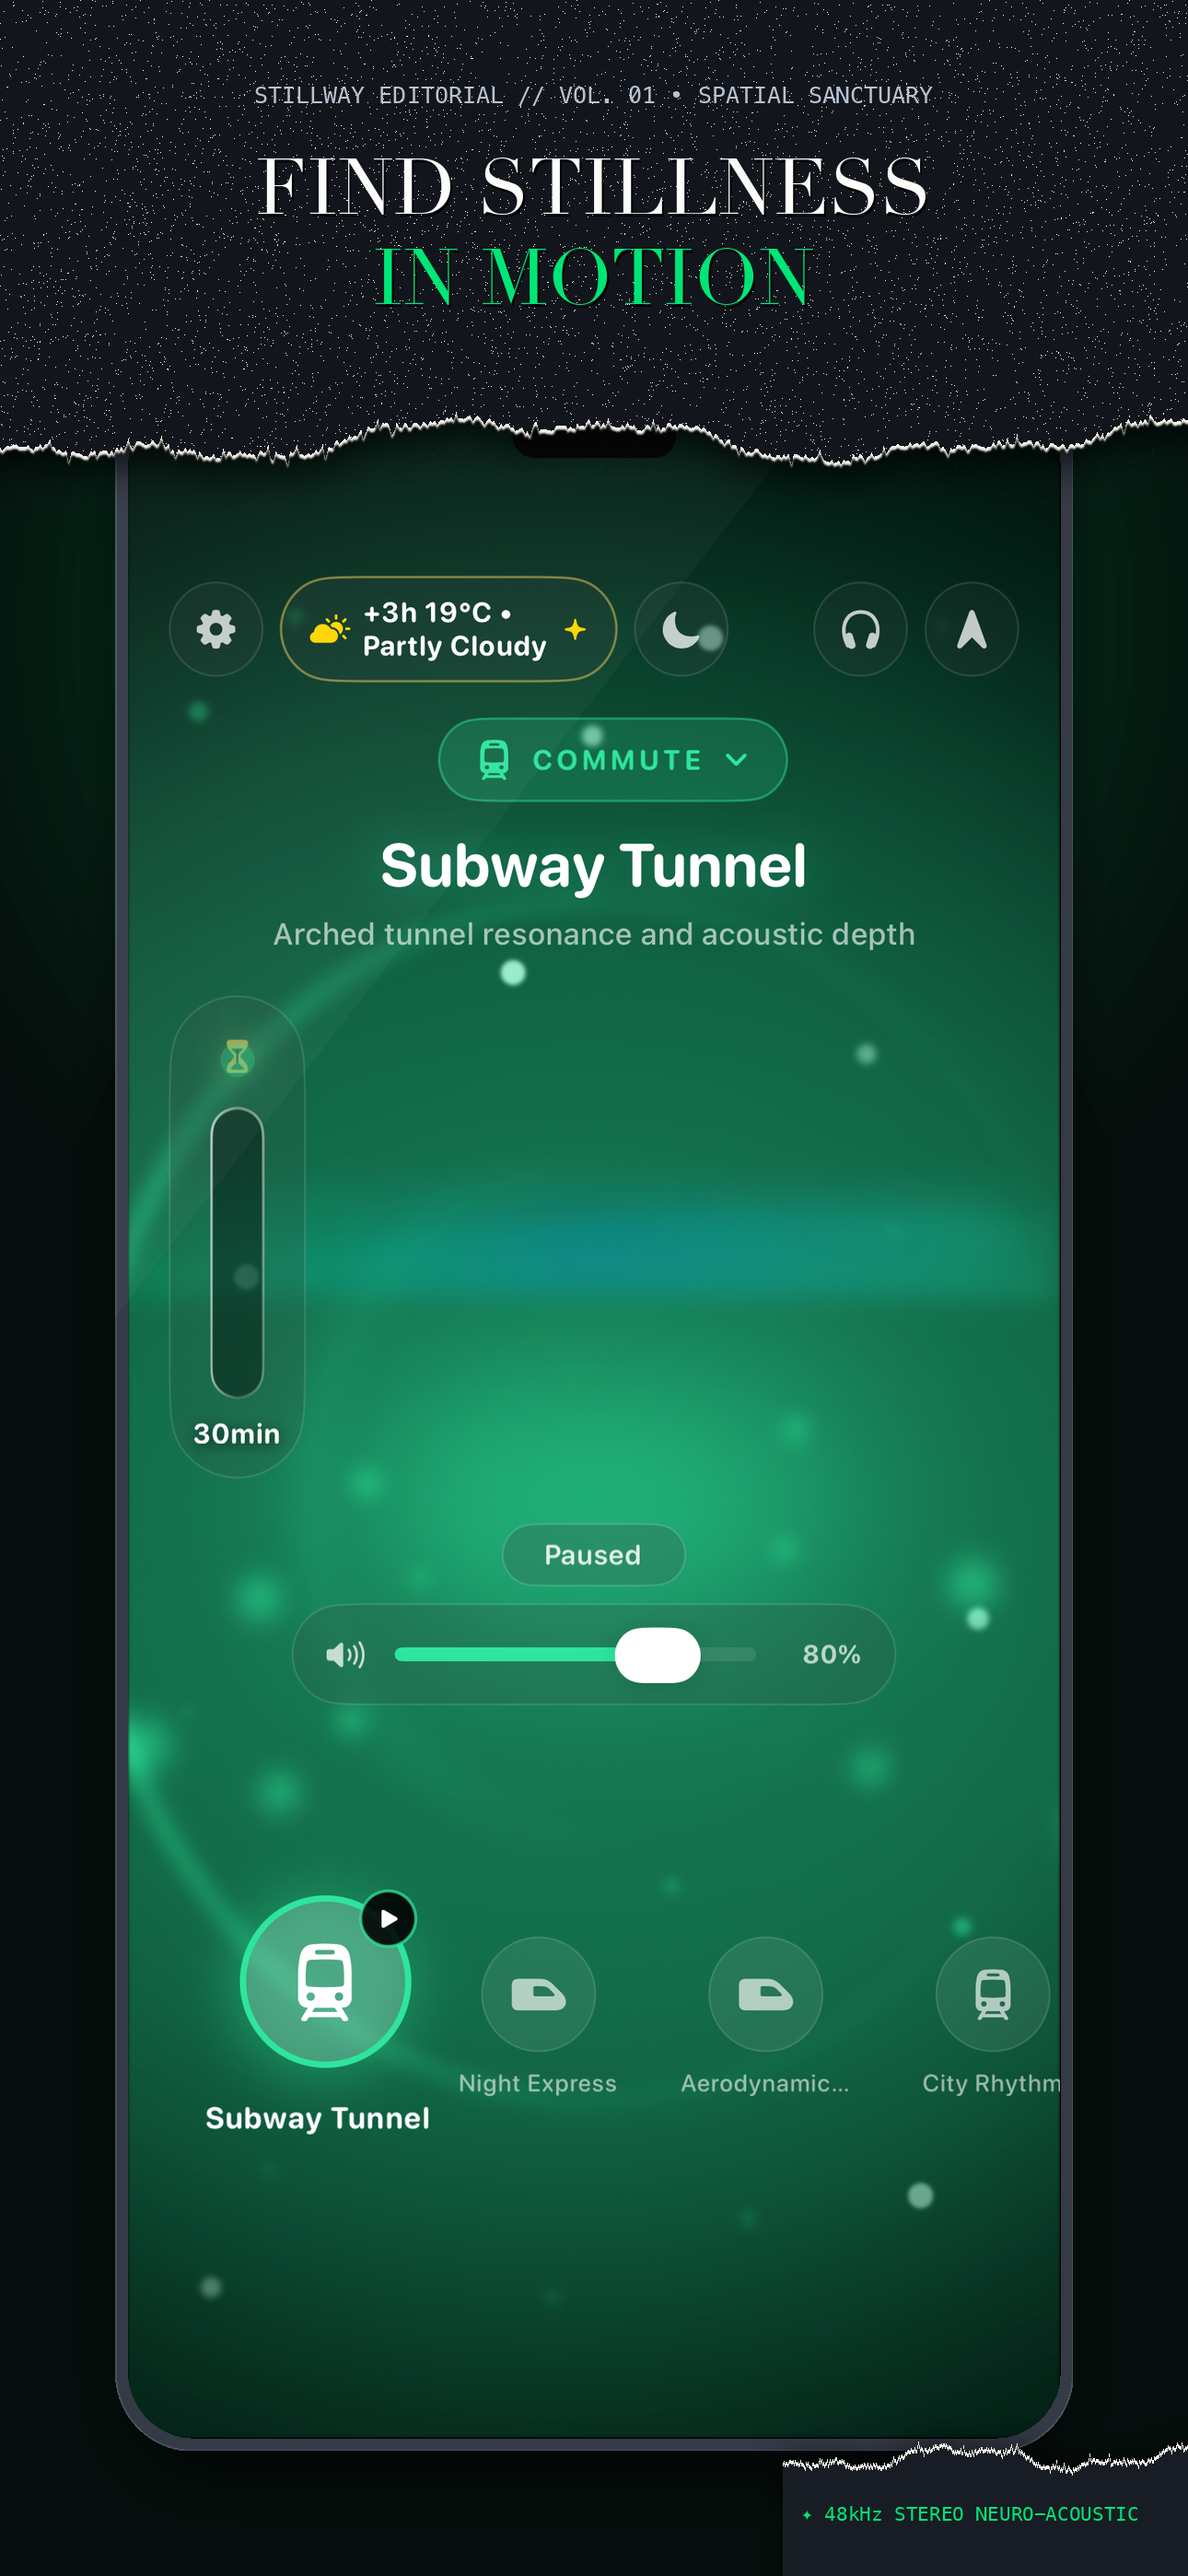
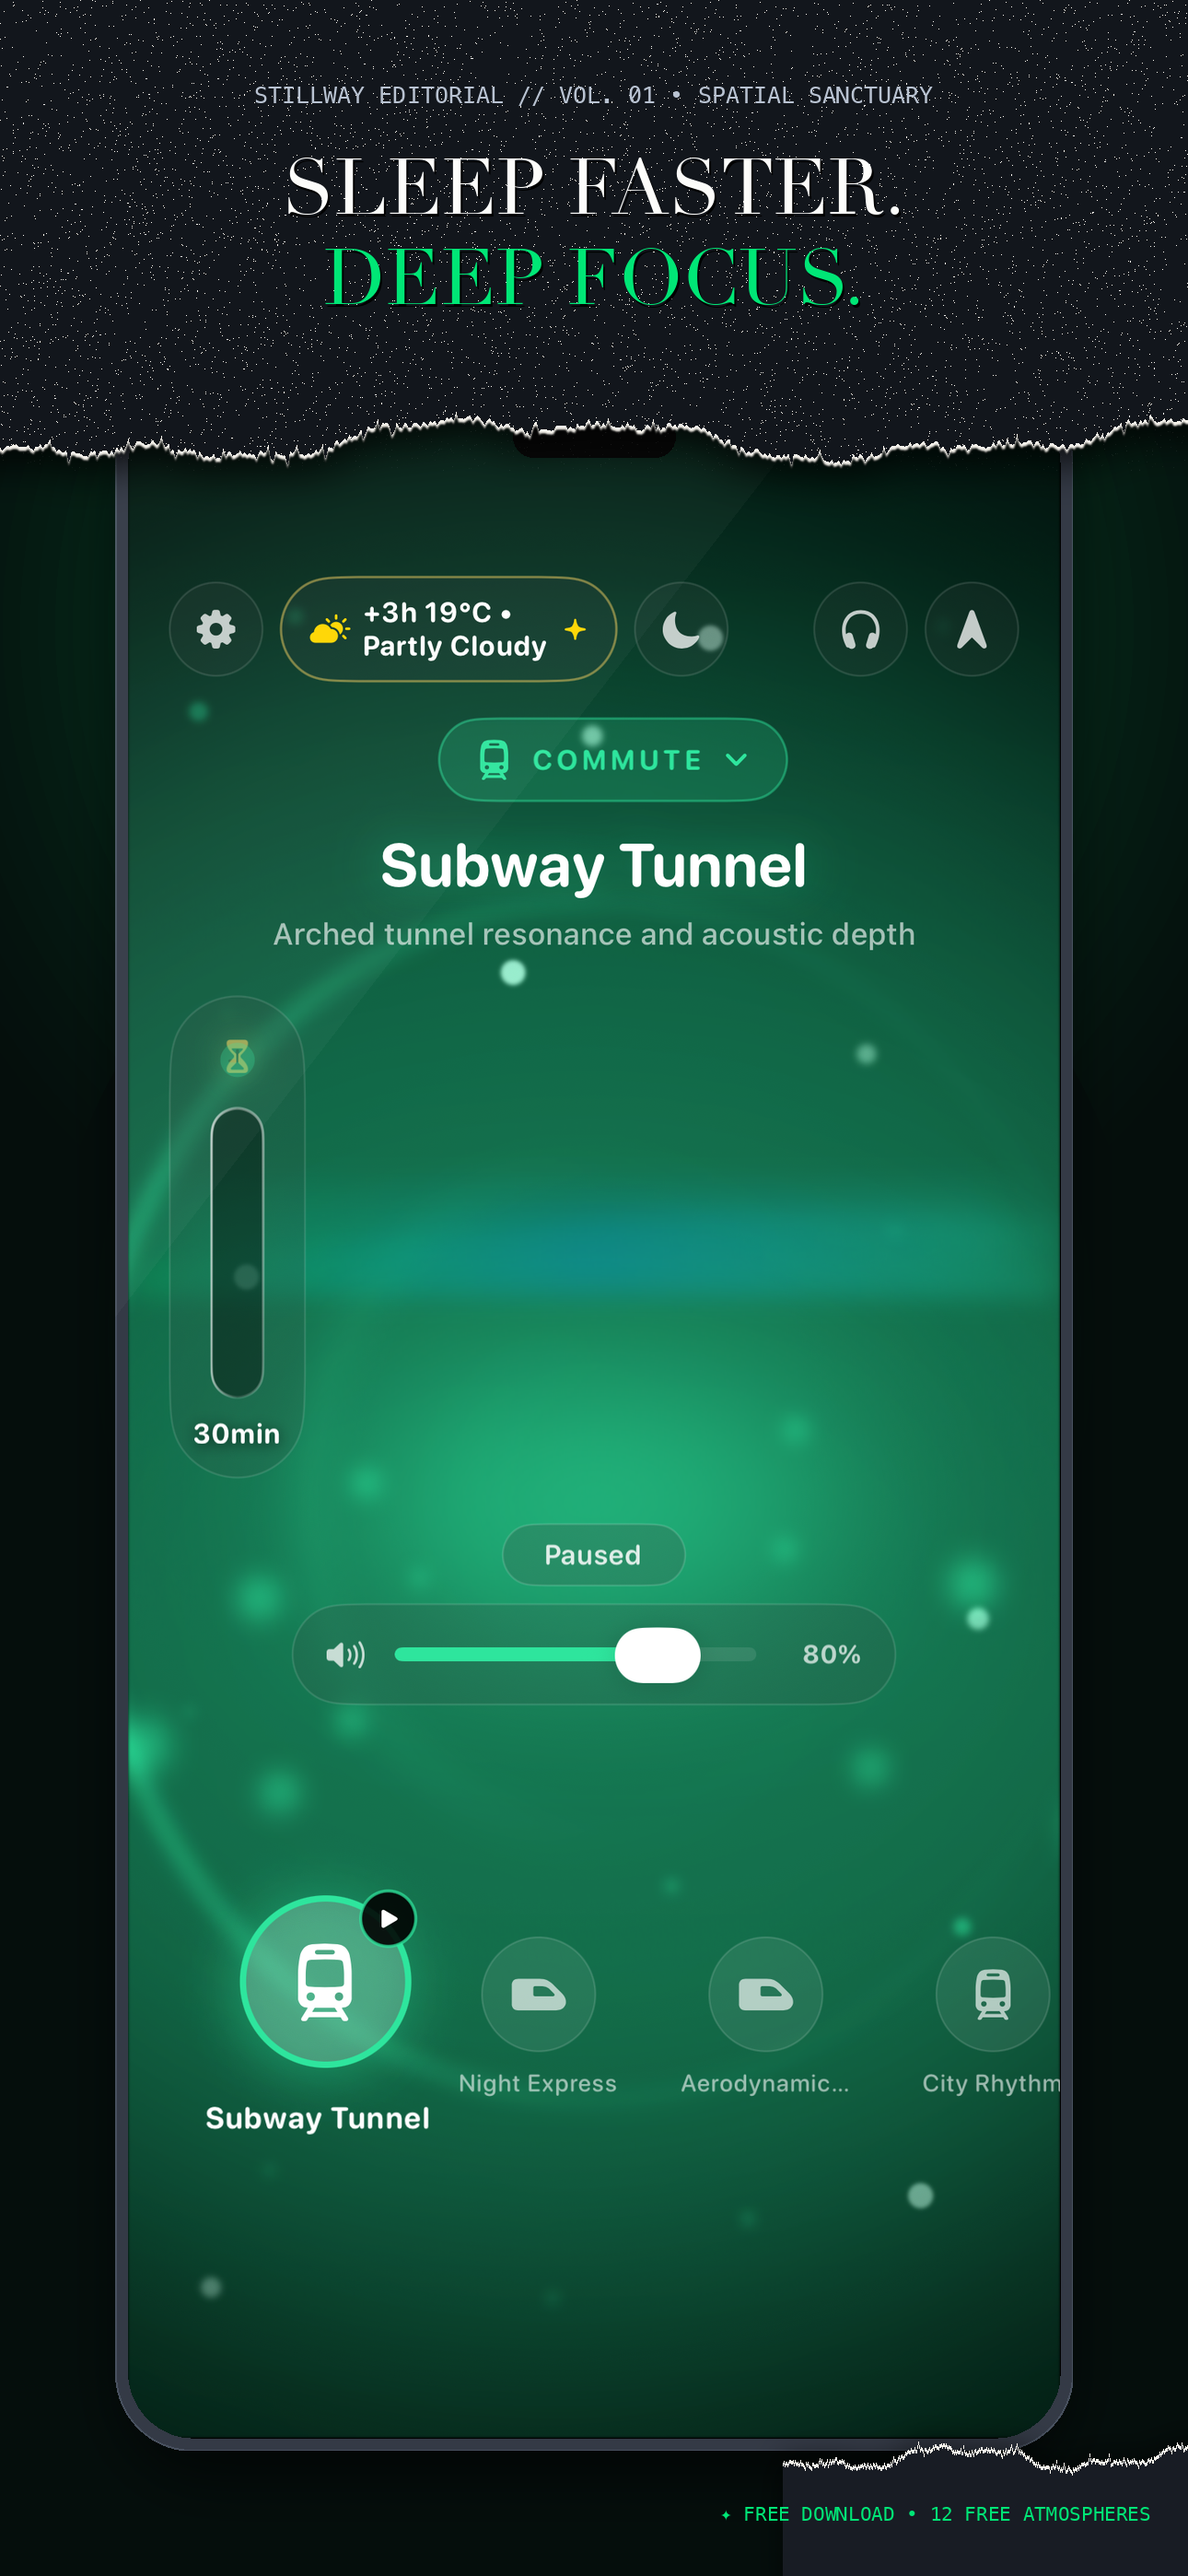
feat(store): configure .99 Lifetime Pro, polite paywall prompter, and free download freemium model

Changed region(s): [[0.2171, 0.0622, 0.7752, 0.1245], [0.8992, 0.9646, 0.9302, 0.9957], [0.6822, 0.9646, 0.7132, 0.9957]]

diff --git a/Stillway/Views/Sheets/SettingsSheet.swift b/Stillway/Views/Sheets/SettingsSheet.swift
@@ -24,6 +24,10 @@ struct SettingsSheet: View {
 
     private var accent: Color { theme.gradient.accentColor }
 
+    private var isProActive: Bool {
+        store.isPro || StillwayTesting.unlockAllFeatures
+    }
+
     var body: some View {
         NavigationStack {
             ZStack {
@@ -120,20 +124,31 @@ struct SettingsSheet: View {
                                                 title: lm.string("atmo_auto"),
                                                 icon: "sparkles",
                                                 isSelected: theme.atmosphereOverride == nil,
-                                                accentColor: accent
+                                                accentColor: accent,
+                                                isLocked: false
                                             ) {
                                                 theme.atmosphereOverride = nil
                                             }
 
                                             ForEach(AtmosphereKind.allCases, id: \.self) { kind in
                                                 let isSelected = theme.atmosphereOverride == kind
+                                                let isLocked = !isProActive && !kind.isFree
                                                 atmospherePill(
                                                     title: kind.displayName(using: lm),
-                                                    icon: kind.symbol,
+                                                    icon: isLocked ? "lock.fill" : kind.symbol,
                                                     isSelected: isSelected,
-                                                    accentColor: accentForKind(kind)
+                                                    accentColor: accentForKind(kind),
+                                                    isLocked: isLocked
                                                 ) {
-                                                    theme.atmosphereOverride = kind
+                                                    if isLocked {
+                                                        HapticEngine.warning()
+                                                        dismiss()
+                                                        DispatchQueue.main.asyncAfter(deadline: .now() + 0.35) {
+                                                            runtime.showPaywall = true
+                                                        }
+                                                    } else {
+                                                        theme.atmosphereOverride = kind
+                                                    }
                                                 }
                                             }
                                         }
@@ -556,6 +571,7 @@ struct SettingsSheet: View {
         icon: String,
         isSelected: Bool,
         accentColor: Color,
+        isLocked: Bool = false,
         action: @escaping () -> Void
     ) -> some View {
         Button {
@@ -564,9 +580,18 @@ struct SettingsSheet: View {
         } label: {
             HStack(spacing: 6) {
                 Image(systemName: icon)
-                    .font(.system(size: 12, weight: .semibold))
+                    .font(.system(size: 11, weight: .semibold))
+                    .foregroundStyle(isLocked ? Color.white.opacity(0.4) : (isSelected ? Color.black : Color.white.opacity(0.85)))
                 Text(title)
                     .font(.system(size: 12, weight: isSelected ? .bold : .medium, design: .rounded))
+                if isLocked {
+                    Text("PRO")
+                        .font(.system(size: 8, weight: .bold, design: .rounded))
+                        .padding(.horizontal, 4)
+                        .padding(.vertical, 2)
+                        .background(Color.white.opacity(0.12), in: Capsule())
+                        .foregroundStyle(Color.white.opacity(0.75))
+                }
             }
             .foregroundStyle(isSelected ? .black : .white.opacity(0.85))
             .padding(.horizontal, 14)

diff --git a/Stillway/Core/Store/PurchaseManager.swift b/Stillway/Core/Store/PurchaseManager.swift
@@ -137,3 +137,47 @@ public enum StillwayReviewPrompter {
         }
     }
 }
+
+// MARK: - Smart Polite Paywall Prompter (Arada sırada, çok sıkmadan)
+@MainActor
+enum StillwayPaywallPrompter {
+    private static let lastPromptTimestampKey = "stillway_last_paywall_prompt_timestamp"
+    private static let sessionCountKey = "stillway_sessions_since_last_paywall_prompt"
+    private static let totalCompletedSessionsKey = "stillway_completed_listening_sessions"
+
+    /// Evaluates whether to gently show the soft paywall without annoying the user.
+    static func evaluatePrompt(runtime: ContextEngine) {
+        // Never prompt if already Pro or in test bypass mode
+        let isPro = StillwayTesting.unlockAllFeatures || UserDefaults.standard.bool(forKey: "stillway.isPro.debug")
+        guard !isPro else { return }
+
+        let total = UserDefaults.standard.integer(forKey: totalCompletedSessionsKey) + 1
+        UserDefaults.standard.set(total, forKey: totalCompletedSessionsKey)
+
+        let sessionsSincePrompt = UserDefaults.standard.integer(forKey: sessionCountKey) + 1
+        UserDefaults.standard.set(sessionsSincePrompt, forKey: sessionCountKey)
+
+        // Rule 1: Never interrupt during the first 2 sessions (give user peace to enjoy free features)
+        guard total >= 3 else { return }
+
+        // Rule 2: Minimum 3 completed sessions between prompts
+        guard sessionsSincePrompt >= 3 else { return }
+
+        // Rule 3: Minimum 48 hours between prompts (çok sıkmadan)
+        let lastPromptTime = UserDefaults.standard.double(forKey: lastPromptTimestampKey)
+        let now = Date().timeIntervalSince1970
+        let minInterval: Double = 48 * 3600 // 48 hours
+
+        if lastPromptTime == 0 || (now - lastPromptTime) >= minInterval {
+            UserDefaults.standard.set(now, forKey: lastPromptTimestampKey)
+            UserDefaults.standard.set(0, forKey: sessionCountKey)
+
+            // Show after gentle 1.2s delay so it feels natural, only if not playing and no sheets open
+            DispatchQueue.main.asyncAfter(deadline: .now() + 1.2) {
+                if !runtime.audio.isPlaying && !runtime.showSettings && !runtime.showSounds {
+                    runtime.showPaywall = true
+                }
+            }
+        }
+    }
+}

diff --git a/Stillway/Views/Sheets/ProPaywallView.swift b/Stillway/Views/Sheets/ProPaywallView.swift
@@ -211,13 +211,13 @@ struct ProPaywallView: View {
         let localizedPrice: String
         switch lm.currentLanguage {
         case .tr:
-            localizedPrice = "999 TL"
+            localizedPrice = "199 TL"
         case .ja:
-            localizedPrice = "¥3,000"
+            localizedPrice = "¥900"
         case .fr:
-            localizedPrice = "19,99 €"
+            localizedPrice = "5,99 €"
         default:
-            localizedPrice = "$19.99"
+            localizedPrice = "$5.99"
         }
 
         if let product = store.proProduct, !ProcessInfo.processInfo.arguments.contains("-forcePaywall") {

diff --git a/Stillway/App/StillwayApp.swift b/Stillway/App/StillwayApp.swift
@@ -42,8 +42,8 @@ struct StillwayApp: App {
             prefs = UserPreferences()
             context.insert(prefs)
         }
-        // Stillway upfront paid app model: ensure user has pro access
-        prefs.isPro = true
+        // Stillway freemium model: respect purchase entitlements
+        prefs.isPro = purchaseManager.isPro || StillwayTesting.unlockAllFeatures
         StillwayMemory.apply(to: prefs)
         if let language = StillwayMemory.selectedLanguage {
             lm.currentLanguage = LanguageCode(rawValue: language) ?? .en

diff --git a/Stillway/Views/Main/AtmosphereKind.swift b/Stillway/Views/Main/AtmosphereKind.swift
@@ -115,4 +115,12 @@ enum AtmosphereKind: String, Codable, CaseIterable, Sendable {
             return lm.currentLanguage == .tr ? "Prizma Halesi" : (lm.currentLanguage == .ja ? "プリズムハロ" : (lm.currentLanguage == .fr ? "Halo Prismatique" : "Prism Halo"))
         }
     }
+
+    /// 1 Free Theme for freemium users, other 10 themes require Stillway Pro.
+    var isFree: Bool {
+        switch self {
+        case .aurora: return true
+        default: return false
+        }
+    }
 }

diff --git a/Stillway/Core/Context/ContextEngine.swift b/Stillway/Core/Context/ContextEngine.swift
@@ -218,6 +218,7 @@ final class ContextEngine {
         breathing.stop()
         triggerType = .manual
         toast = localization.string("toast_stopped")
+        StillwayPaywallPrompter.evaluatePrompt(runtime: self)
     }
 
     func handleStartStop(preferences: UserPreferences?) {

diff --git a/Stillway/screenshots_studio/generate_torn_magazine_screenshots.py b/Stillway/screenshots_studio/generate_torn_magazine_screenshots.py
@@ -250,14 +250,14 @@ CONFIGS = [
         "accent_rgb": (0, 230, 118),
         "title_size": 84,
         "meta_en": "STILLWAY EDITORIAL // VOL. 01 • SPATIAL SANCTUARY",
-        "meta_ja": "STILLWAY 創刊号 // 第01号 • 移動と静寂の聖域",
-        "meta_tr": "STILLWAY DERGİ // SAYI 01 • YOLCULUK SIĞINAĞI",
-        "title_en": "FIND STILLNESS\nIN MOTION",
-        "title_ja": "移動を、\n静寂の聖域へ。",
-        "title_tr": "HAREKETİN İÇİNDE\nDERİN SESSİZLİK",
-        "badge_en": "✦ 48kHz STEREO NEURO-ACOUSTIC",
-        "badge_ja": "★ 48kHz 立体音響 • 端末内生成",
-        "badge_tr": "✦ 48kHz ÇİFT KANALLI STEREO SES"
+        "meta_ja": "STILLWAY 創刊号 // 第01号 • 思考を鎮める静寂の聖域",
+        "meta_tr": "STILLWAY DERGİ // SAYI 01 • SESSİZLİK VE ODAKLANMA",
+        "title_en": "SLEEP FASTER.\nDEEP FOCUS.",
+        "title_ja": "思考を鎮め、\n至福の眠りへ。",
+        "title_tr": "DAHA HIZLI UYU.\nDERİN ODAKLAN.",
+        "badge_en": "✦ FREE DOWNLOAD • 12 FREE ATMOSPHERES",
+        "badge_ja": "★ 無料ダウンロード • 12音源無料",
+        "badge_tr": "✦ ÜCRETSİZ İNDİR • 12 ÜCRETSİZ AMBİYANS"
     },
     {
         "index": "02",

diff --git a/Stillway/APP_STORE_METADATA.md b/Stillway/APP_STORE_METADATA.md
@@ -11,7 +11,7 @@ Bu belge, Stillway'in App Store Connect üzerinden yayınlanması için gerekli 
 | **Birincil Kategori (Primary Category)** | Health & Fitness (Sağlık ve Fitness) veya Lifestyle (Yaşam Tarzı) |
 | **İkincil Kategori (Secondary Category)** | Productivity (Verimlilik) veya Music (Müzik) |
 | **Yaş Derecelendirmesi (Age Rating)** | 4+ (Herhangi bir sakıncalı içerik, kumar veya yetişkin unsuru içermez) |
-| **Fiyatlandırma Modeli** | Peşin Satın Alma (Upfront Paid) veya Ücretsiz İndirme + Pro Açma |
+| **Fiyatlandırma Modeli** | **Ücretsiz İndirme (Free)** + Uygulama İçi Satın Alma (Stillway Pro Lifetime) |
 | **Telif Hakkı (Copyright)** | © 2026 Sinan Nergiz. All rights reserved. |
 | **Pazarlama URL (Marketing URL)** | `https://istcity.github.io/Stillway/` |
 | **Destek URL (Support URL)** | `https://istcity.github.io/Stillway/support.html` |
@@ -46,27 +46,27 @@ App Store Connect'te incelemeye gönderebilmek için sol menüden **App Privacy 
 
 ### App Name (Maksimum 30 Karakter)
 ```text
-Stillway: Neural Ambient Audio
-```
-*(Karakter sayısı: 30)*
-
-### Subtitle (Maksimum 30 Karakter)
-```text
-Focus, Sleep & Commute Sounds
+Stillway: White & Brown Noise
 ```
 *(Karakter sayısı: 29)*
 
+### Subtitle (Maksimum 30 Karakter)
+```text
+Rain Sounds, Sleep & Focus
+```
+*(Karakter sayısı: 26)*
+
 ### Keywords (Maksimum 100 Karakter, Virgülle ayrılmış, boşluksuz)
 ```text
-ambient,white noise,binaural,sleep sounds,focus,nature,rain,meditation,zen,relax,study,lofi,soundscape
+brown noise,white noise,rain sounds,sleep,binaural,deep focus,adhd,nature,relax,meditation,zen,lofi
 ```
 *(Karakter sayısı: 99)*
 
 ### Promotional Text (Maksimum 170 Karakter - İnceleme olmadan güncellenebilir)
 ```text
-Zero taps required. Stillway senses your environment and generates the perfect acoustic sanctuary for deep work, crowded commutes, and restorative sleep.
+Free download with 12 master atmospheres. Pure offline acoustic sanctuary for deep sleep, ADHD focus, and study flow. Zero ads, zero tracking.
 ```
-*(Karakter sayısı: 153)*
+*(Karakter sayısı: 143)*
 
 ### Description (Açıklama - Maksimum 4000 Karakter)
 ```text
@@ -127,27 +127,27 @@ Welcome to the debut release of Stillway!
 
 ### App Name (Maksimum 30 Karakter)
 ```text
-Stillway: Nöro-Akustik Ortam
-```
-*(Karakter sayısı: 28)*
-
-### Subtitle (Maksimum 30 Karakter)
-```text
-Odaklanma, Uyku ve Beyin Sesi
+Stillway: Beyaz Gürültü & Ses
 ```
 *(Karakter sayısı: 29)*
 
+### Subtitle (Maksimum 30 Karakter)
+```text
+Yağmur Sesi, Uyku ve Odak
+```
+*(Karakter sayısı: 25)*
+
 ### Keywords (Maksimum 100 Karakter, Virgülle ayrılmış, boşluksuz)
 ```text
-beyaz gürültü,uyku sesleri,odaklanma,meditasyon,yağmur sesi,binaural,rahatlatıcı,çalışma,stres,lofi,huzur
+beyaz gürültü,kahverengi gürültü,yağmur sesi,uyku sesleri,odaklanma,meditasyon,binaural,rahatlatıcı,lofi
 ```
 *(Karakter sayısı: 100)*
 
 ### Promotional Text (Maksimum 170 Karakter - İnceleme olmadan güncellenebilir)
 ```text
-Ekrana dokunmanıza gerek yok. Stillway nerede olduğunuzu anlar; odaklanma, metro yolculuğu ve derin uyku için ideal ortamı kendiliğinden oluşturur.
+12 ambiyans ile ücretsiz indir. Derin uyku, ders çalışma ve dikkat dağınıklığı için reklamsız, internet istemeyen nöro-akustik sığınak.
 ```
-*(Karakter sayısı: 147)*
+*(Karakter sayısı: 136)*
 
 ### Description (Açıklama - Maksimum 4000 Karakter)
 ```text
@@ -208,27 +208,27 @@ Stillway'in ilk sürümü yayında!
 
 ### App Name (Maksimum 30 Karakter)
 ```text
-Stillway: 環境音と集中・睡眠
+Stillway: 睡眠と集中・雨の音
 ```
-*(Karakter sayısı: 16)*
+*(Karakter sayısı: 21)*
 
 ### Subtitle (Maksimum 30 Karakter)
 ```text
-バイノーラル・集中・雨の音・睡眠
+ホワイトノイズ & 集中タイマー
 ```
-*(Karakter sayısı: 17)*
+*(Karakter sayısı: 19)*
 
 ### Keywords (Maksimum 100 Karakter, Virgülle ayrılmış, boşluksuz)
 ```text
-環境音,ホワイトノイズ,睡眠音,集中,バイノーラル,雨の音,瞑想,作業用bgm,自然音,快眠,リラックス,自律神経
+ホワイトノイズ,睡眠,集中,雨の音,バイノーラル,瞑想,自然音,快眠,作業用bgm,自律神経,リラックス,環境音
 ```
-*(Karakter sayısı: 61)*
+*(Karakter sayısı: 68)*
 
 ### Promotional Text (Maksimum 170 Karakter - İnceleme olmadan güncellenebilir)
 ```text
-画面操作は不要です。Stillwayは移動・集中・就寝を自動で認識し、今この瞬間に最適なアコースティック空間を創り出します。
+12種類の音源を無料でお試し。思考を鎮め、深い集中と心地よい眠りへ導く完全オフライン・広告ゼロの音響空間。
 ```
-*(Karakter sayısı: 65)*
+*(Karakter sayısı: 55)*
 
 ### Description (Açıklama - Maksimum 4000 Karakter)
 ```text
